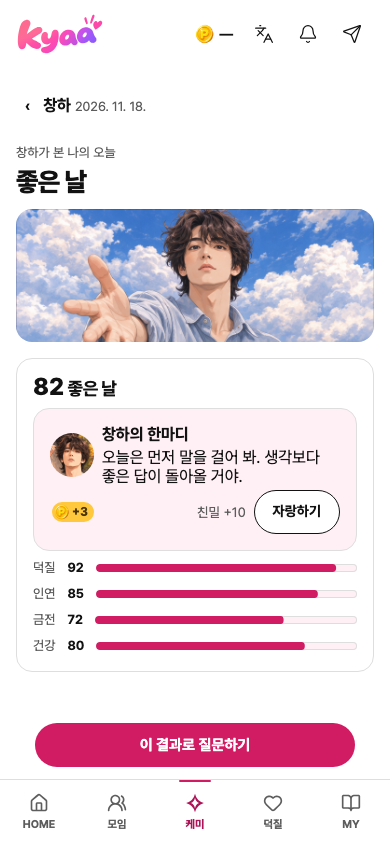
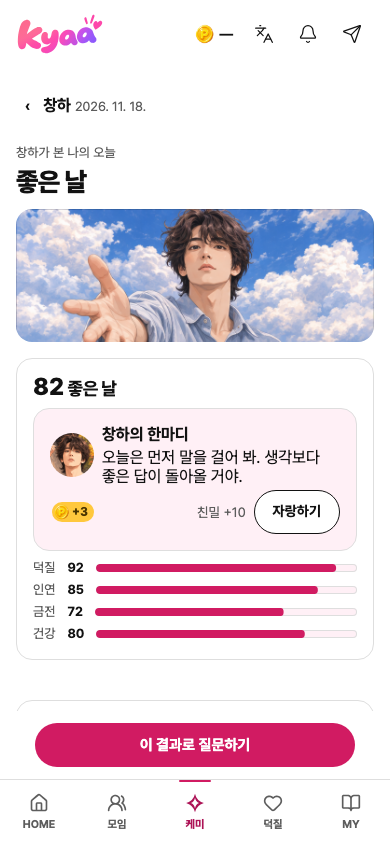
공유 토스트 아래에 점수와 다음 제목이 겹치지 않게 조정

Changed region(s): [[0.2462, 0.6777, 0.9231, 0.7701], [0.0923, 0.6777, 0.2154, 0.8009]]

diff --git a/apps/web/app/chemi/fortune/result.module.css b/apps/web/app/chemi/fortune/result.module.css
@@ -190,7 +190,7 @@
 }
 @media (max-width: 63.99rem) {
   .panel:has(.scoreRow) {
-    row-gap: var(--space-2);
+    row-gap: var(--space-1);
   }
 }
 .facts {
@@ -208,4 +208,9 @@
 }
 .facts dd {
   margin: 0;
+}
+@media (max-width: 63.99rem) {
+  .mobileReaction {
+    margin-block: var(--space-1);
+  }
 }
